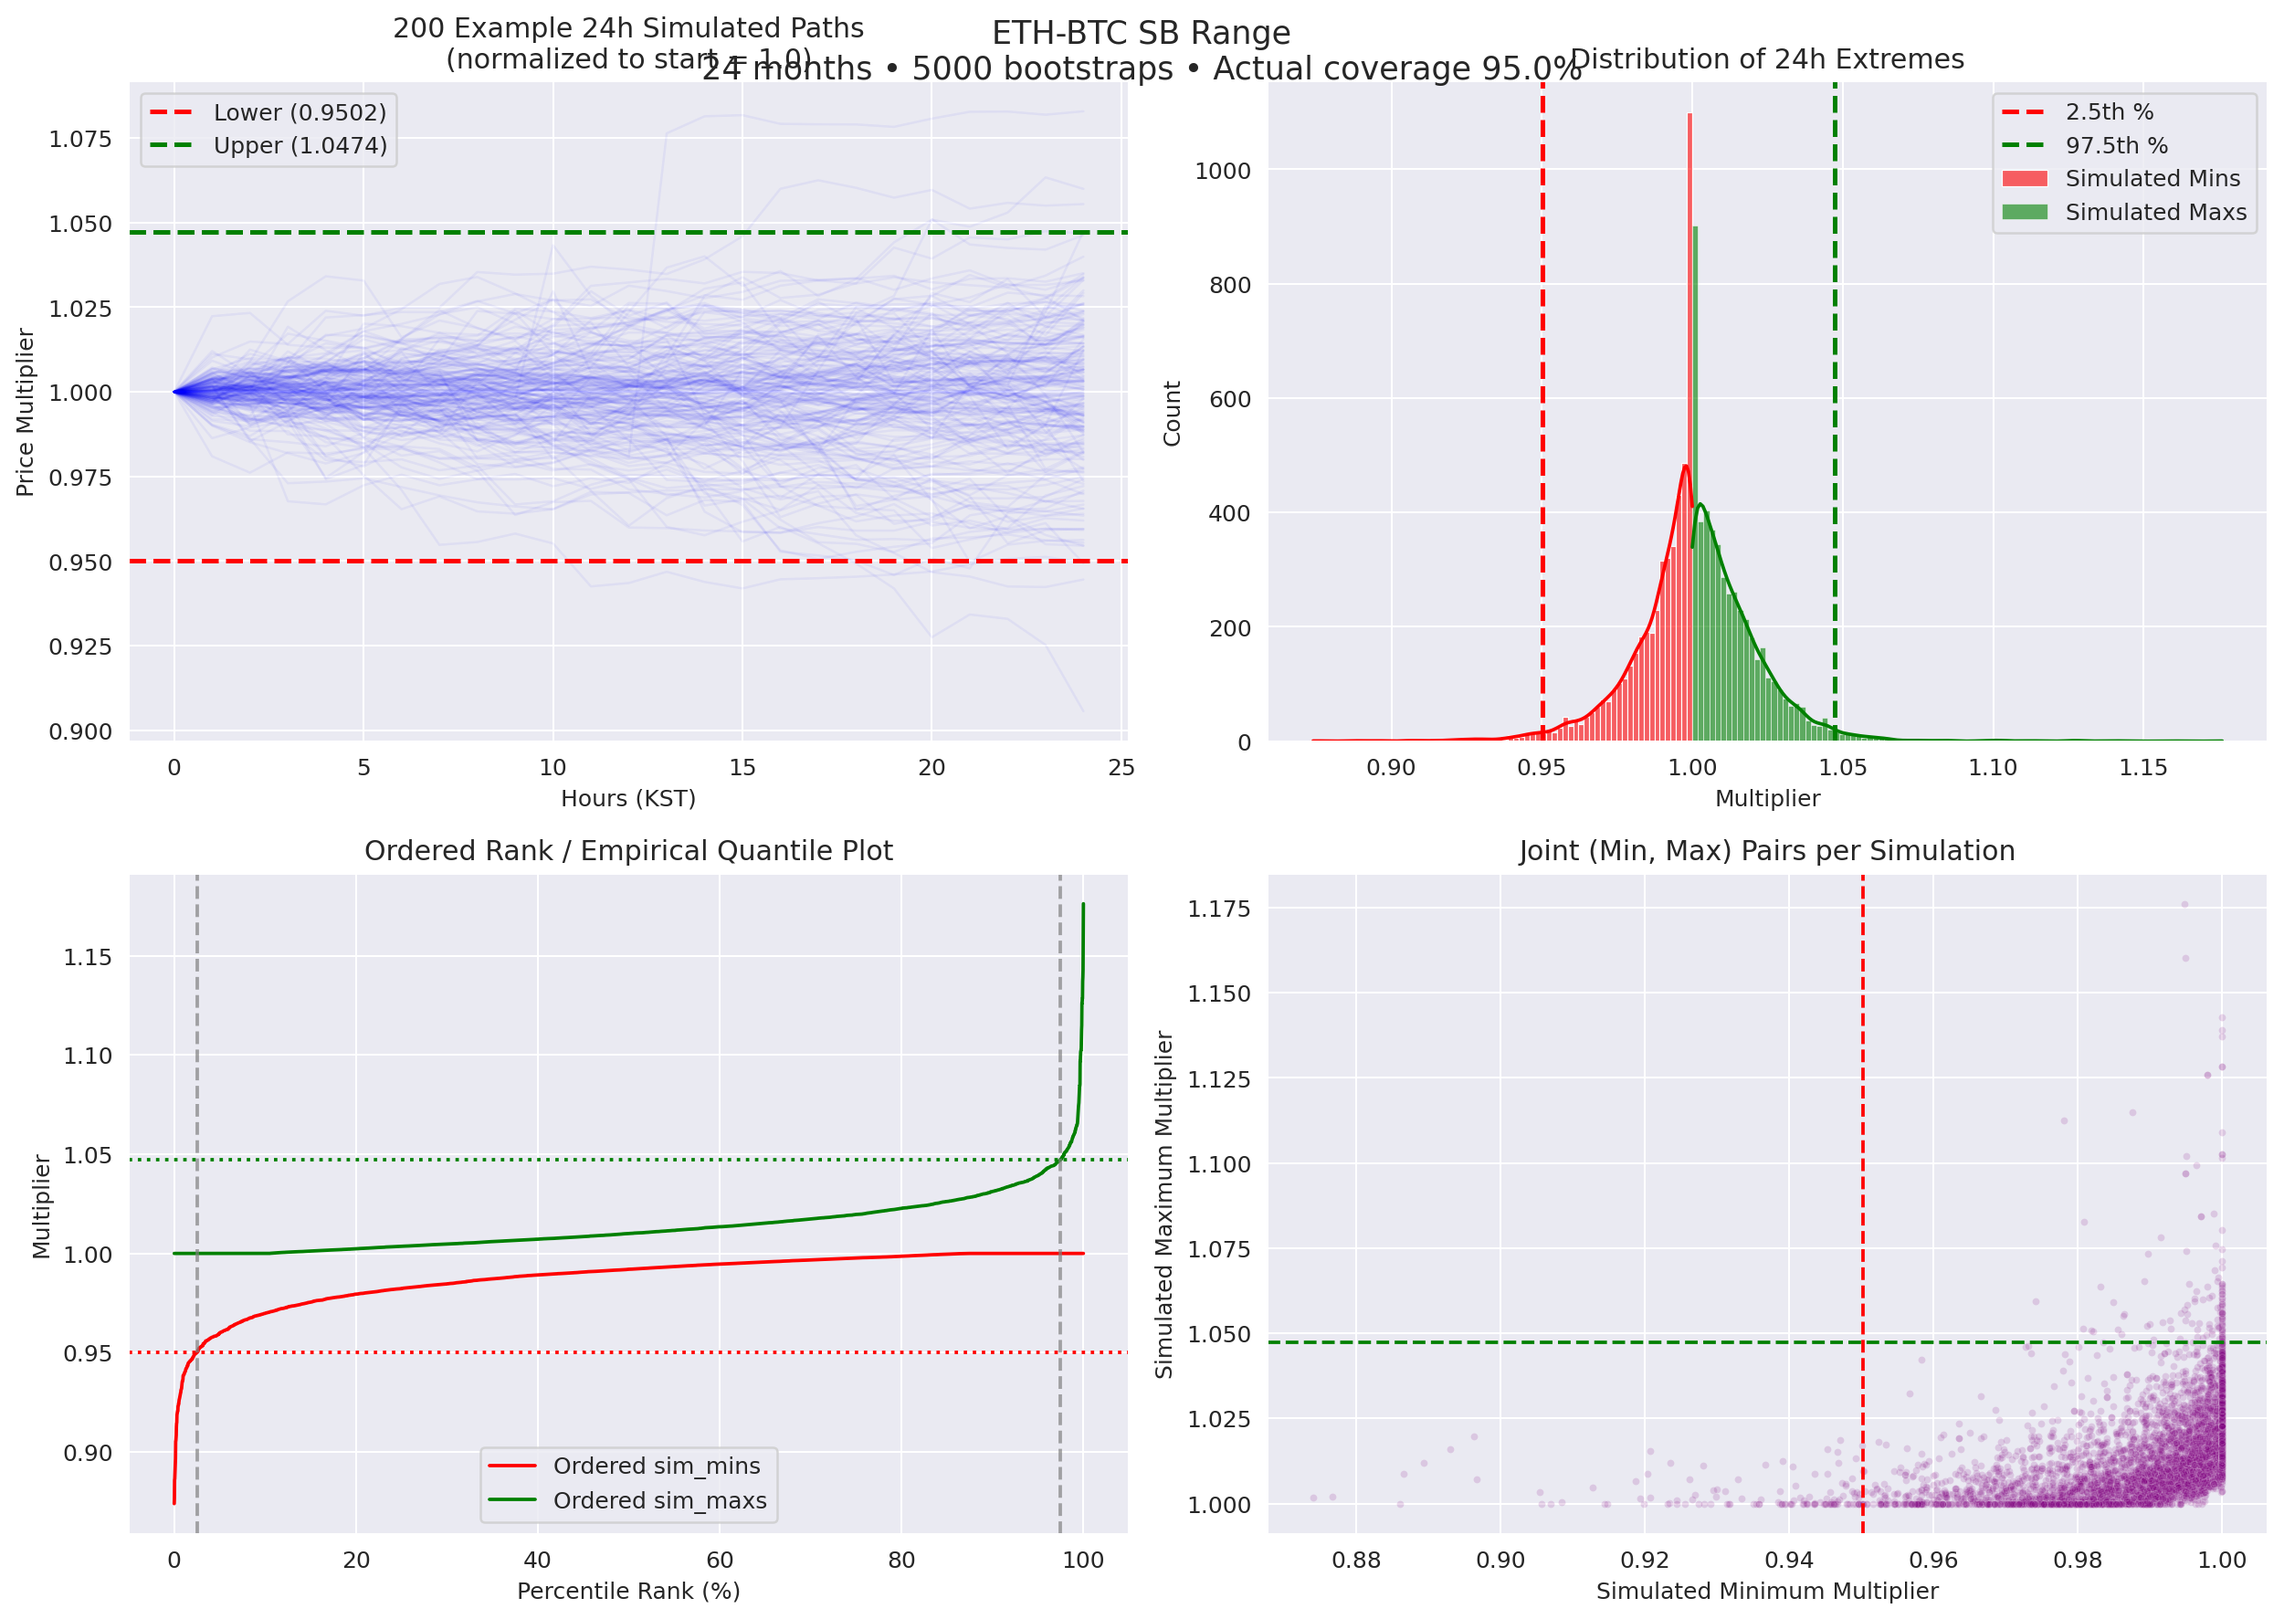
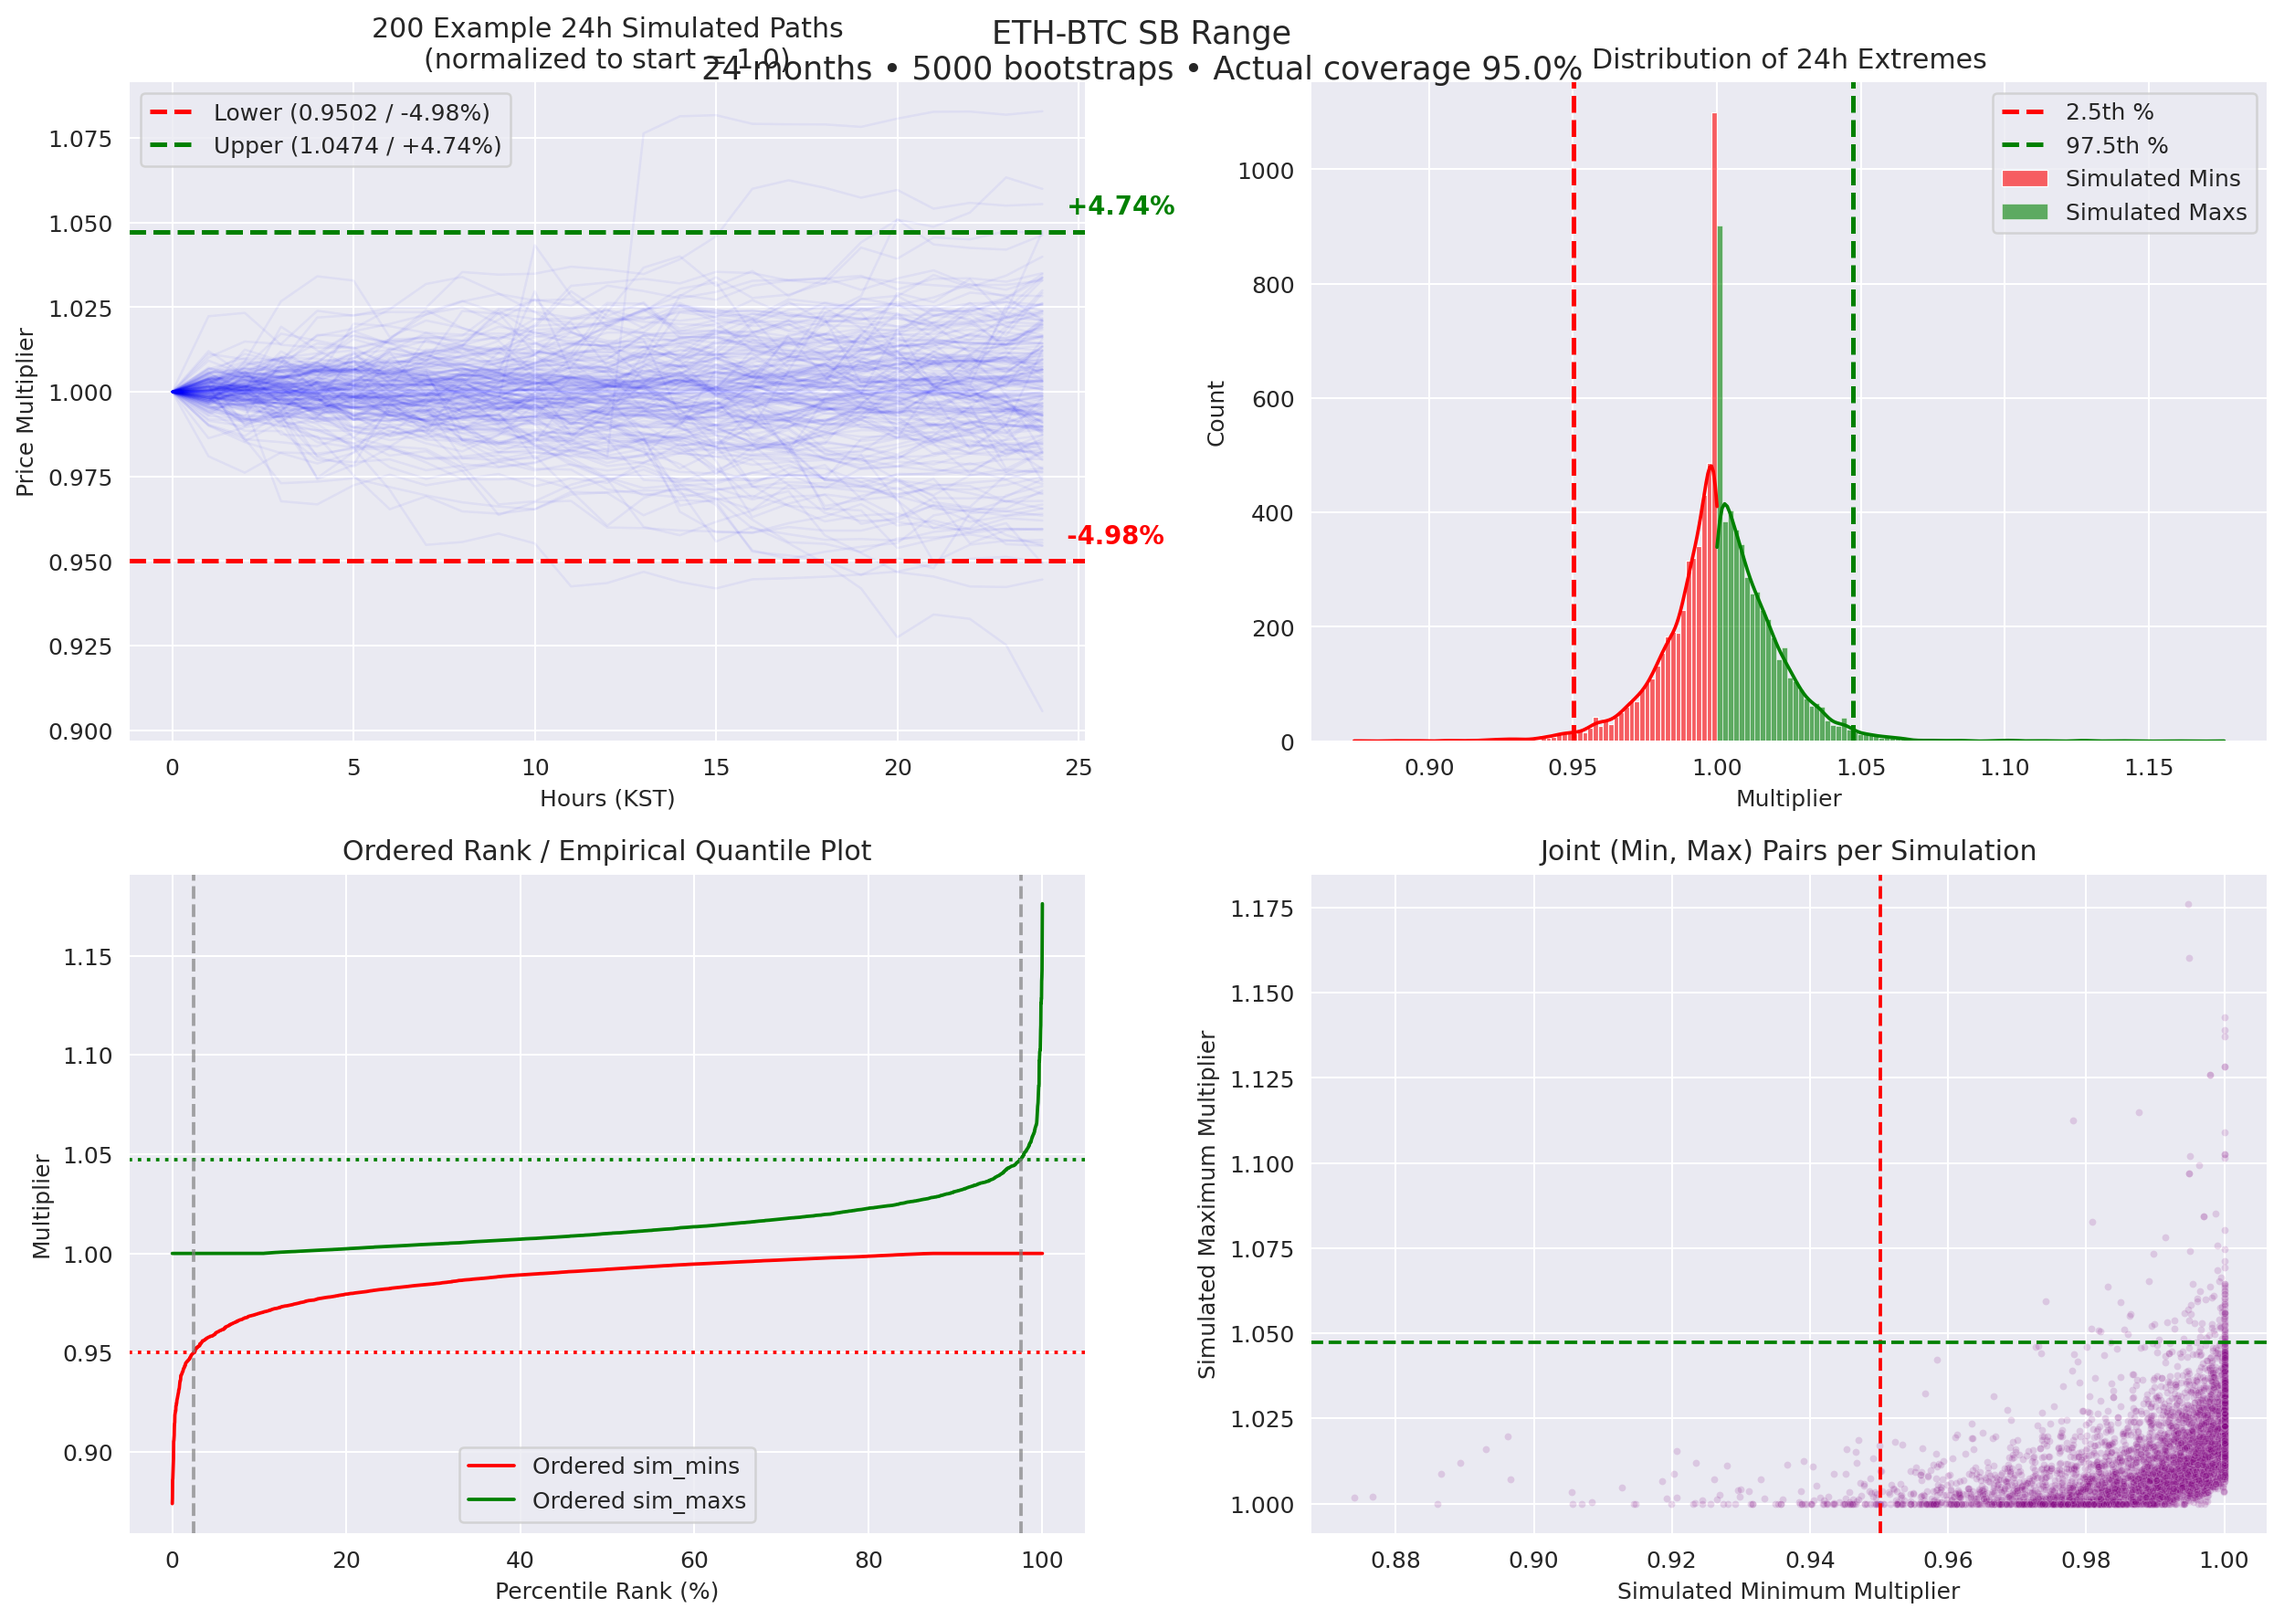
save

diff --git a/src/gecko_price_analysis/sb_tokens.py b/src/gecko_price_analysis/sb_tokens.py
@@ -20,7 +20,7 @@ CONFIG = {
     'high_percentile': 97.5,            # Upper range percentile
     'data_dir': 'fetched_data',         # Folder with the CSVs
     'draw_charts': True,                # ← Set False to skip all visualizations entirely
-    'chart_dpi': 180,                   # ← NEW: Export DPI (180 is crisp + fast; 300 for print)
+    'chart_dpi': 180,                   # ← Export DPI (180 is crisp + fast; 300 for print)
 }
 # ============================================================
 
@@ -115,11 +115,15 @@ def main():
     lower_mult = np.percentile(sim_mins, CONFIG['low_percentile'])
     upper_mult = np.percentile(sim_maxs, CONFIG['high_percentile'])
 
+    # --- Percentage versions for chart labels ---
+    lower_pct = (lower_mult - 1) * 100
+    upper_pct = (upper_mult - 1) * 100
+
     print("\n" + "="*80)
     print(f"OPTIMAL LIQUIDITY POOL RANGE for {CONFIG['token0'].upper()} per {CONFIG['token1'].upper()}")
     print("="*80)
-    print(f"Lower multiplier : {lower_mult:.4f}  →  lower = current × {lower_mult:.4f}")
-    print(f"Upper multiplier : {upper_mult:.4f}  →  upper = current × {upper_mult:.4f}")
+    print(f"Lower multiplier : {lower_mult:.4f}  →  lower = current × {lower_mult:.4f}  ({lower_pct:+.2f}%)")
+    print(f"Upper multiplier : {upper_mult:.4f}  →  upper = current × {upper_mult:.4f}  ({upper_pct:+.2f}%)")
     print(f"Range width      : {(upper_mult / lower_mult - 1)*100:.1f}%")
     print(f"Coverage         : ~{100 - CONFIG['low_percentile']*2:.0f}% of simulated 24h paths")
     print(f"Based on         : {len(historical):,} hourly observations")
@@ -145,7 +149,7 @@ def main():
 
         fig = plt.figure()
 
-        # 1. Simulated paths (most intuitive)
+        # 1. Simulated paths — labels now slightly ABOVE the lines
         ax1 = plt.subplot(2, 2, 1)
         np.random.seed(42)  # reproducible sample
         sample_idx = np.random.choice(len(sim_mins), 200, replace=False)
@@ -154,14 +158,26 @@ def main():
             path = np.exp(np.cumsum(boot_r))
             path = np.insert(path, 0, 1.0)
             ax1.plot(range(25), path, color='blue', alpha=0.05, lw=1)
-        ax1.axhline(lower_mult, color='red', linestyle='--', lw=2, label=f'Lower ({lower_mult:.4f})')
-        ax1.axhline(upper_mult, color='green', linestyle='--', lw=2, label=f'Upper ({upper_mult:.4f})')
+
+        # Legend (multiplier + percentage)
+        ax1.axhline(lower_mult, color='red', linestyle='--', lw=2,
+                    label=f'Lower ({lower_mult:.4f} / {lower_pct:+.2f}%)')
+        ax1.axhline(upper_mult, color='green', linestyle='--', lw=2,
+                    label=f'Upper ({upper_mult:.4f} / {upper_pct:+.2f}%)')
+
+        # NEW: labels placed slightly ABOVE the lines (no more overlap)
+        offset = 0.0035   # ← tweak this if you want more/less vertical spacing
+        ax1.text(24.2, lower_mult + offset, f'  {lower_pct:+.2f}%',
+                 color='red', va='bottom', ha='left', fontsize=11, fontweight='bold')
+        ax1.text(24.2, upper_mult + offset, f'  {upper_pct:+.2f}%',
+                 color='green', va='bottom', ha='left', fontsize=11, fontweight='bold')
+
         ax1.set_title('200 Example 24h Simulated Paths\n(normalized to start = 1.0)')
         ax1.set_xlabel('Hours (KST)')
         ax1.set_ylabel('Price Multiplier')
         ax1.legend()
 
-        # 2. Histograms of extremes
+        # 2. Histograms of extremes (unchanged)
         ax2 = plt.subplot(2, 2, 2)
         sns.histplot(sim_mins, kde=True, color='red', alpha=0.6, label='Simulated Mins', ax=ax2)
         sns.histplot(sim_maxs, kde=True, color='green', alpha=0.6, label='Simulated Maxs', ax=ax2)
@@ -171,7 +187,7 @@ def main():
         ax2.set_xlabel('Multiplier')
         ax2.legend()
 
-        # 3. Ordered rank / quantile plot
+        # 3. Ordered rank / quantile plot (unchanged)
         ax3 = plt.subplot(2, 2, 3)
         sorted_mins = np.sort(sim_mins)
         sorted_maxs = np.sort(sim_maxs)
@@ -187,7 +203,7 @@ def main():
         ax3.set_ylabel('Multiplier')
         ax3.legend()
 
-        # 4. Joint distribution
+        # 4. Joint distribution (unchanged)
         ax4 = plt.subplot(2, 2, 4)
         sns.scatterplot(x=sim_mins, y=sim_maxs, alpha=0.15, s=10, color='purple', ax=ax4)
         ax4.axvline(lower_mult, color='red', linestyle='--')
@@ -204,10 +220,10 @@ def main():
             fontsize=14, y=0.98
         )
 
-        # EXPORT ONLY — no pause, no interactive window
+        # EXPORT ONLY
         filename = f"sb_range_{CONFIG['token0']}_{CONFIG['token1']}_{CONFIG['n_months']}m.png"
         fig.savefig(filename, dpi=CONFIG['chart_dpi'], bbox_inches='tight')
-        plt.close(fig)  # Explicitly close to free memory instantly
+        plt.close(fig)
 
         print(f"✅ Charts exported as: {filename}  (DPI = {CONFIG['chart_dpi']})")
 
